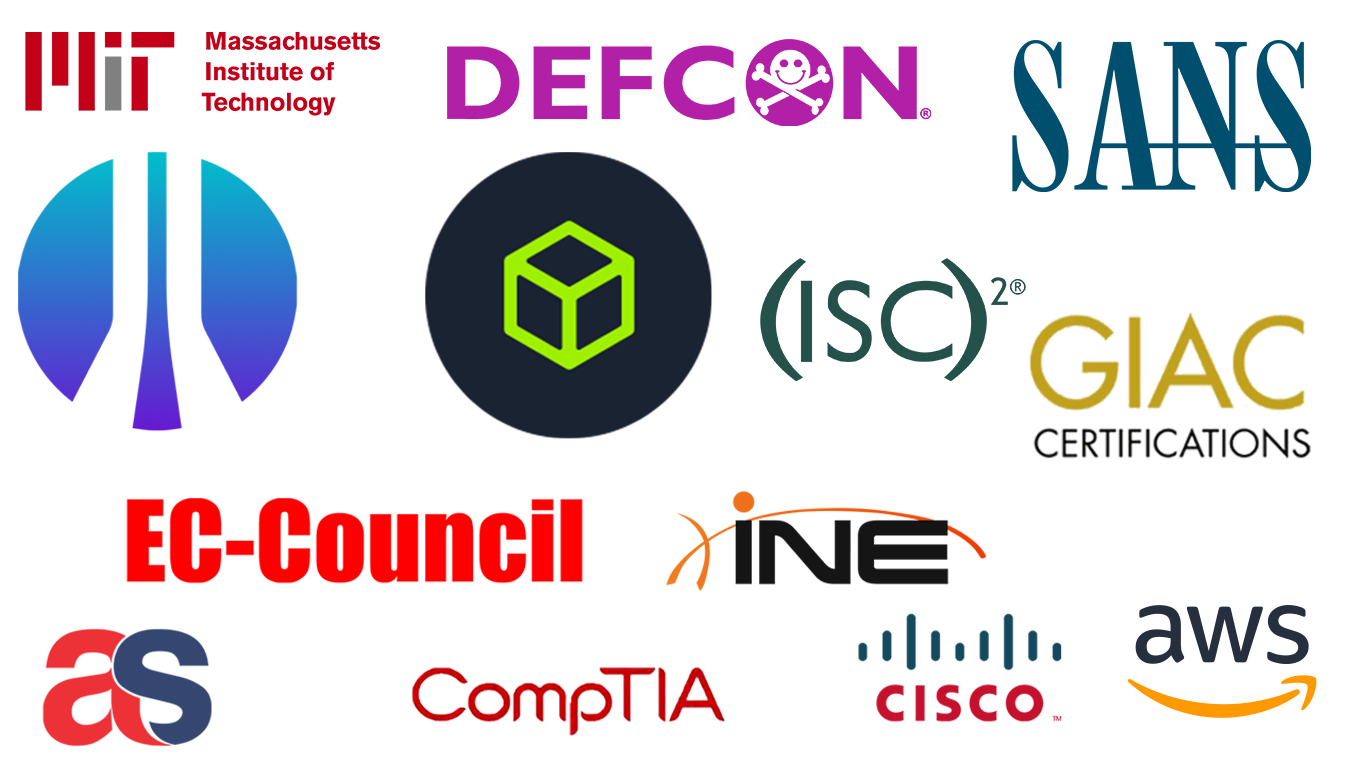
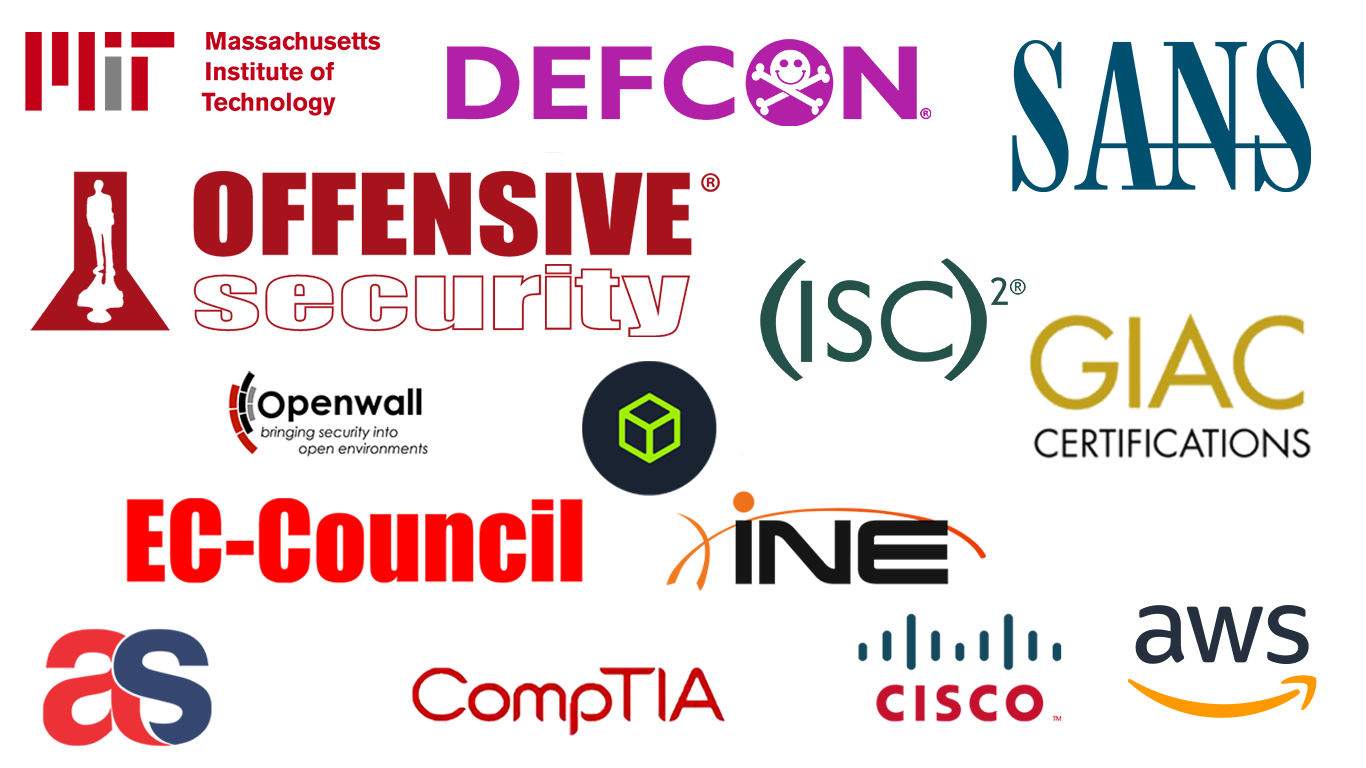
outline Update

Changed region(s): [[0.0, 0.1875, 0.5227, 0.6562]]

diff --git a/index.html b/index.html
@@ -215,8 +215,8 @@
                   CRTM | CRTP | CRTE | PACES | CARTP | CAWASP | PenTest+ | CPT | 
                   eMAPT | eWPTXv2 | eCPPTv2 | eCPTXv2 | eCXD | CCSAS | CBBH | CPTS 
                   | CDSA | CWEE | OSCP | OSDA | KLCP | OSWP | OSEP | OSED | OSWE | 
-                  OSCE3 | OSMR | OSEE | GXPN | GPEN | CEH (Master) | LPT (Master) | CHFI (v11) 
-                  | CPENT | CISSP
+                  OSCE3 | OSMR | OSEE | CEH (Master) | LPT (Master) | CHFI (v11) 
+                  | CPENT | GPEN | GXPN | CISSP
                 </p><br>
                 <!-- Add technologies you used to build the project -->
                 <h3 class="h3">Recognize By</h3><br>
@@ -224,7 +224,8 @@
                   <li>INE Security</li>
                   <li>Offensive Security</li>
                   <li>InfoSec Institute</li>
-                  <li>DEF CON Conference</li>
+                  <li>DEF CON</li>
+                  <li>Openwall</li>
                   <li>Cisco</li>
                   <li>BlackHat</li>
                   <li>ISACA</li>
@@ -927,8 +928,8 @@
                   Conference Exec at BlackHat & DEFCON
                   </h3>
                   <p class="article-text">
-                    The best known Hackers conference on earth. It's also one of the largest and longest running underground Hacker conference. Me personally never go 
-                    to the live <b>BlackHat</b> or <b>DEF CON</b> Conference.<br><br>
+                    The best known Hackers conference on earth. It's also one of the largest and longest running underground Hacker conference. Me personally never went 
+                    to <b>BlackHat</b> or <b>DEF CON</b> live Conference.<br><br>
                     However, some of my Projects and Repositories were being presented on <b>DEF CON</b> 2024 such as <b>PasswordCracker</b> and <b>Ronin</b> the Shogun.
                   </p>
                 </div>
@@ -995,7 +996,7 @@
                       alt="heart"
                       loading="lazy"
                     />
-                    322 
+                    341 
                   </span>
                 </div>
               </div>
